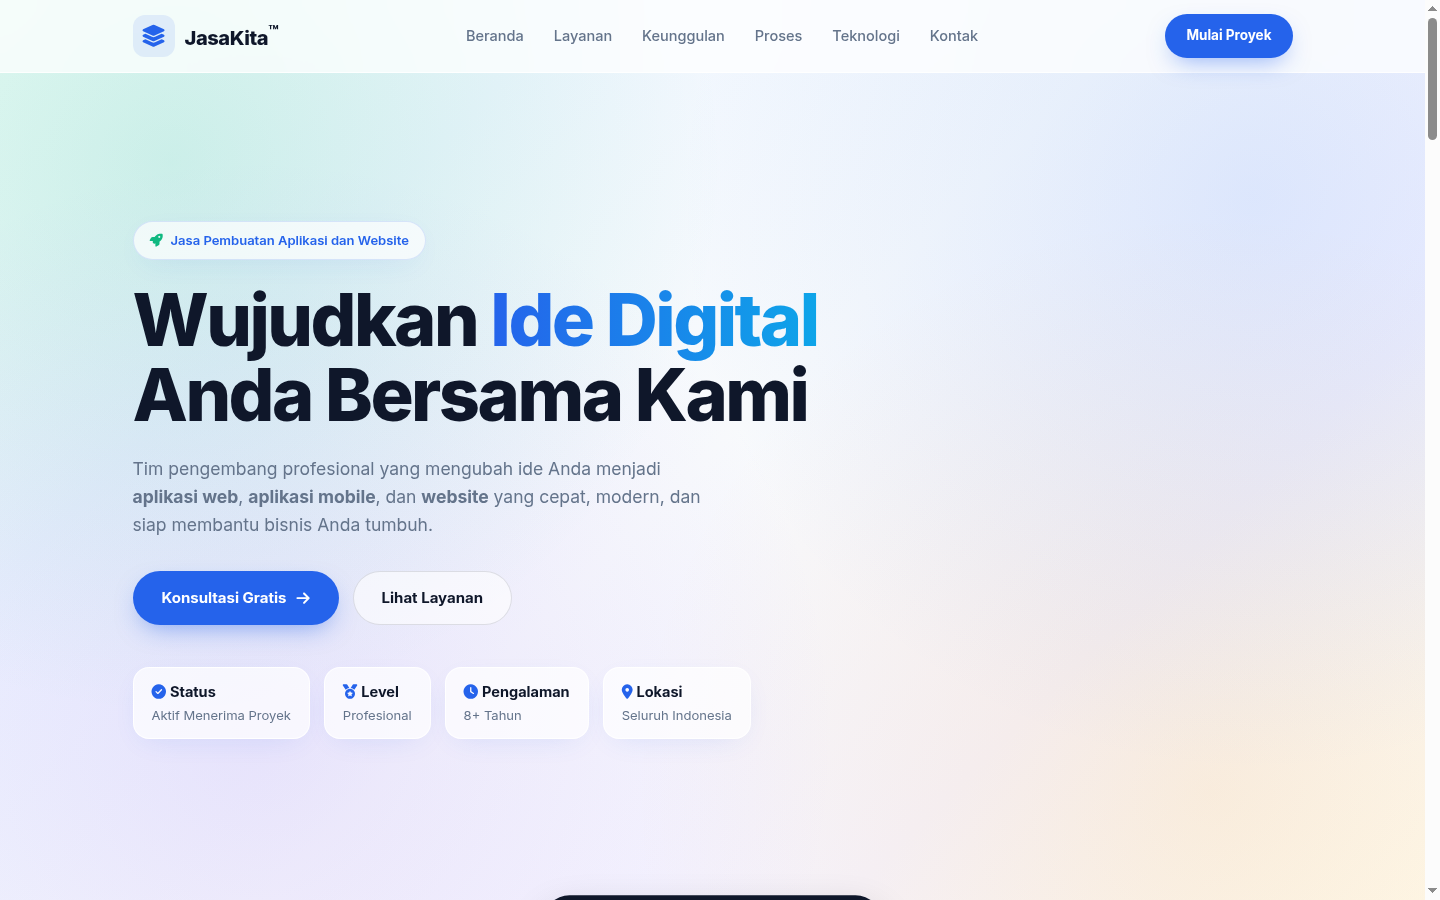
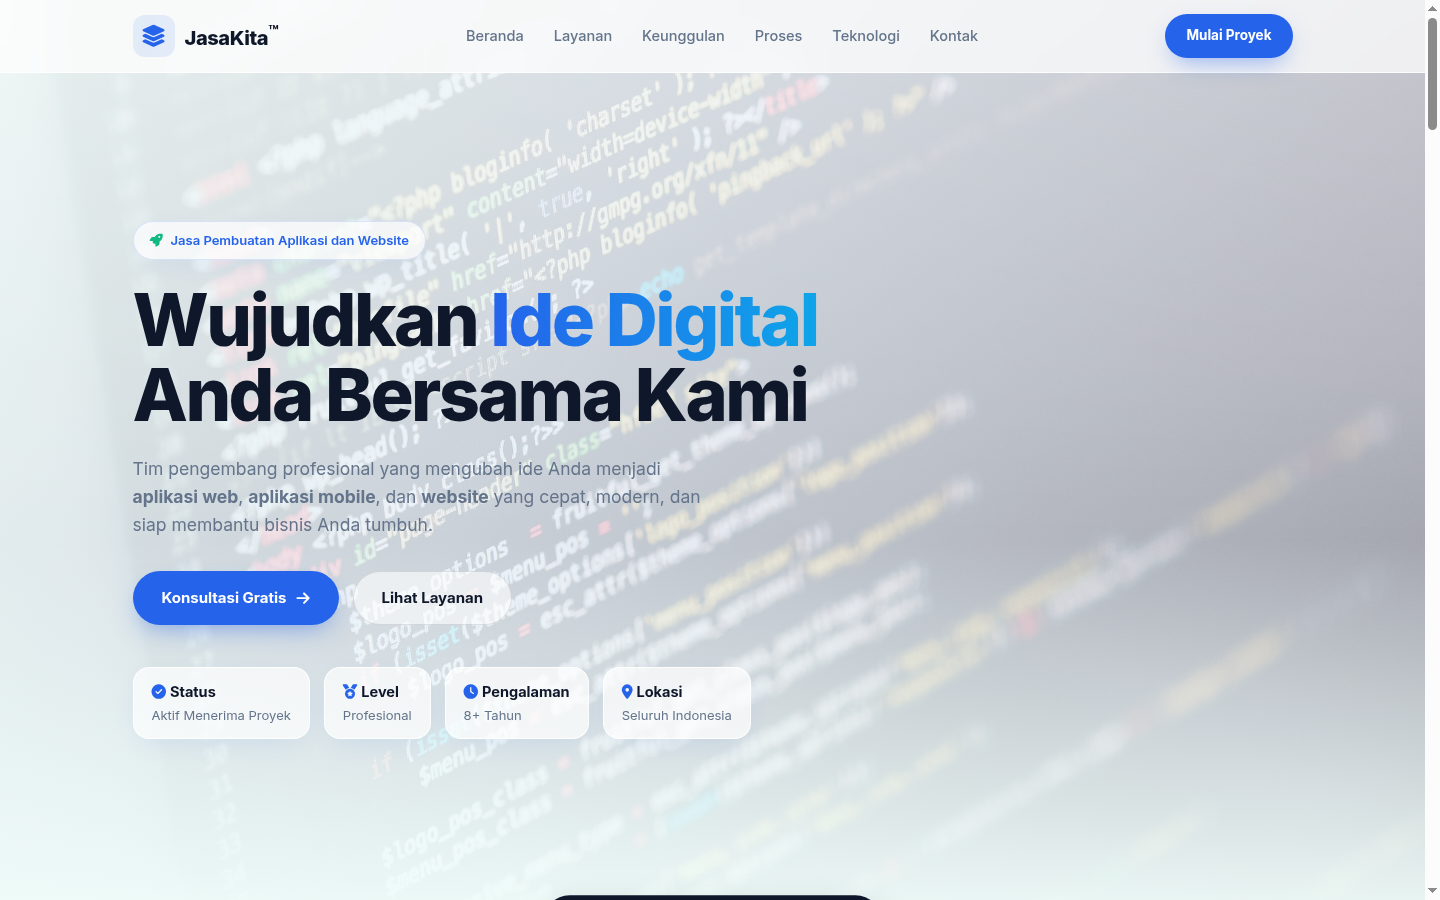
Add background images to hero and CTA sections
- Hero uses coding/tech photo with light gradient overlay
- New CTA banner section with blue gradient + security photo
- Update README with asset structure and screenshots

diff --git a/index.html b/index.html
@@ -191,6 +191,48 @@ footer { border-top:1px solid rgba(15,23,42,0.08); background:rgba(255,255,255,0
   .marquee-track { animation:none;; }
 }
 
+
+/* ===== hero background image ===== */
+.hero {
+  background:
+    linear-gradient(120deg, rgba(240,253,250,0.92) 0%, rgba(239,246,255,0.82) 40%, rgba(245,243,255,0.6) 100%),
+    url('assets/hero-bg.jpg') center/cover no-repeat;
+}
+.hero::after {
+  content:"";
+  position:absolute;
+  inset:0;
+  background:linear-gradient(180deg, rgba(255,255,255,0.25) 0%, rgba(255,255,255,0) 60%, rgba(240,253,250,0.9) 100%);
+  pointer-events:none;
+  z-index:0;
+}
+.hero .wrap { z-index:2; }
+
+/* ===== CTA section with background ===== */
+.cta-section {
+  position:relative;
+  border-radius:28px;
+  overflow:hidden;
+  padding:clamp(48px,7vw,80px);
+  background:
+    linear-gradient(135deg, rgba(37,99,235,0.92), rgba(14,165,233,0.85)),
+    url('assets/cta-bg.jpg') center/cover no-repeat;
+  color:#fff;
+  text-align:center;
+}
+.cta-section h2 {
+  font-size:clamp(26px,4vw,44px);
+  font-weight:800;
+  letter-spacing:-0.03em;
+  line-height:1.15;
+  max-width:20ch;
+  margin:0 auto 18px;
+  color:#fff;
+}
+.cta-section p { color:rgba(255,255,255,0.85); font-size:16px; max-width:52ch; margin:0 auto 30px; }
+.cta-section .btn { background:#fff; color:var(--brand); box-shadow:0 12px 30px -8px rgba(0,0,0,0.3); }
+.cta-section .btn:hover { transform:translateY(-2px); box-shadow:0 18px 36px -8px rgba(0,0,0,0.35); }
+
 </style>
 </head>
 <body>
@@ -389,6 +431,17 @@ footer { border-top:1px solid rgba(15,23,42,0.08); background:rgba(255,255,255,0
         <p>“Dari desain sampai peluncuran hanya 6 minggu. Aplikasi kasir kami dipakai 40+ cabang.”</p>
         <footer class="quote__who"><div class="quote__ava">SN</div><div><b>Sari Nurdiyanti</b><span>Direktur · Toko Sembako Makmur Group</span></div></footer>
       </blockquote>
+    </div>
+  </div>
+</section>
+
+
+<section class="sec" style="padding-block:clamp(30px,5vw,50px);">
+  <div class="wrap">
+    <div class="cta-section reveal">
+      <h2>Punya ide? Mari kita wujudkan dalam <em style="color:#fff;font-style:normal;">30 hari</em> atau kurang.</h2>
+      <p>Konsultasi gratis untuk memahami kebutuhan Anda — tanpa komitmen, tanpa embel-embel.</p>
+      <a href="#kontak" class="btn">Jadwalkan Konsultasi <i class="fa-solid fa-arrow-right"></i></a>
     </div>
   </div>
 </section>

diff --git a/README.md b/README.md
@@ -75,12 +75,15 @@ Atau cukup buka file `index.html` langsung di browser — semua aset sudah inlin
 
 ```text
 .
-├── index.html          # Halaman utama (semua CSS inline di <style>)
-├── script.js            # JavaScript eksternal (interaktivitas)
-├── preview-hero.png    # Screenshot tampilan hero
-├── preview-kontak.png  # Screenshot tampilan kontak
-├── README.md           # Dokumentasi ini
-└── AGENTS.md           # Catatan teknis untuk agen AI
+├── index.html              # Halaman utama (semua CSS inline di <style>)
+├── script.js                # JavaScript eksternal (interaktivitas)
+├── assets/
+│   ├── hero-bg.jpg         # Gambar latar hero (coding/teknologi)
+│   └── cta-bg.jpg          # Gambar latar section CTA
+├── preview-hero.png        # Screenshot tampilan hero
+├── preview-kontak.png      # Screenshot tampilan CTA/kontak
+├── README.md               # Dokumentasi ini
+└── AGENTS.md               # Catatan teknis untuk agen AI
 ```
 
 ---
@@ -89,10 +92,11 @@ Atau cukup buka file `index.html` langsung di browser — semua aset sudah inlin
 
 - **Tema**: Light modern dengan radial gradient pastel (hijau mint, biru, ungu, oranye) di latar
 - **Aksen**: Biru `#2563eb` dan biru muda `#0ea5e9`
+- **Gambar latar**: Hero memakai foto coding/teknologi (dengan overlay light gradient), section CTA memakai foto keamanan siber dengan overlay gradient biru
 - **Kartu**: Glassmorphism — `rgba(255,255,255,0.6)` + `backdrop-filter: blur(12px)` + border putih + bayangan halus
 - **Tipografi**: *Inter* untuk seluruh teks
 - **Ikon**: Font Awesome 6.5.1
-- **Detail visual**: badge/eyebrow pill, section bernomor, progress bar gradient, chip teknologi, marquee layanan
+- **Detail visual**: badge/eyebrow pill, section bernomor, progress bar gradient, chip teknologi, marquee layanan, CTA banner
 
 ---
 
